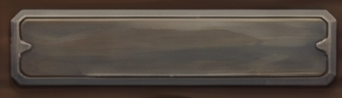
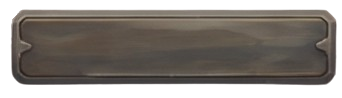
Update site plaque image

diff --git a/index.html b/index.html
@@ -23,7 +23,7 @@
   <div class="top-beam" aria-hidden="true">
     <img class="top-beam__image" src="top-beam-bar.png?v=20260411-0517" alt="" />
   </div>
-  <img class="site-plaque-decor" id="site-plaque-decor" src="site-plaque.png?v=20260416-plaque2" alt="" title="Drag to move. Wheel to resize. Shift + drag to resize. Double-click to reset." />
+  <img class="site-plaque-decor" id="site-plaque-decor" src="site-plaque.png?v=20260417-plaque3" alt="" title="Drag to move. Wheel to resize. Shift + drag to resize. Double-click to reset." />
   <div class="site-plaque-controls" id="site-plaque-controls" aria-label="Site plaque size controls">
     <button class="site-plaque-control-btn" id="site-plaque-decrease" type="button" aria-label="Decrease site plaque size">-</button>
     <button class="site-plaque-control-btn" id="site-plaque-increase" type="button" aria-label="Increase site plaque size">+</button>
